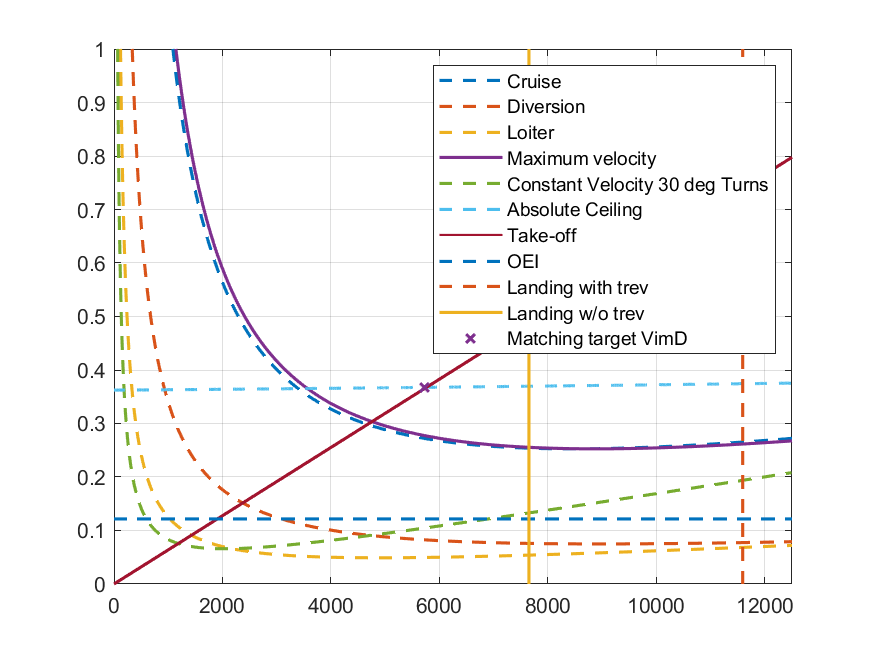
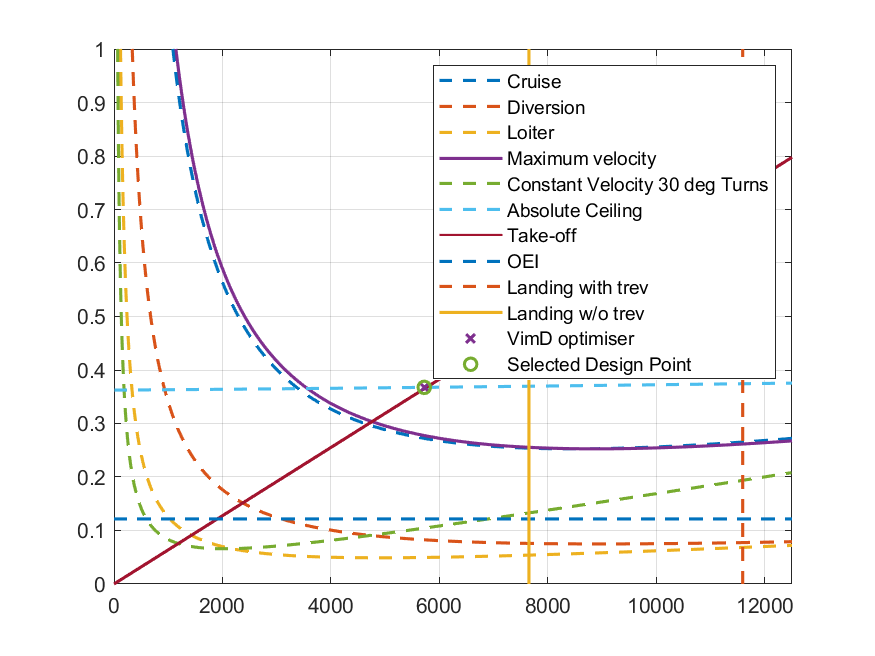
Added method for reading design point automatically
The design point can now be automatically derived from just running the code. Make sure to check the graph anyway. The design point is selected to optimise VimD to match the cruise segment.

diff --git a/Initial Sizing & Constraints/Absolute_Ceiling.m b/Initial Sizing & Constraints/Absolute_Ceiling.m
@@ -8,7 +8,7 @@ function [WS, TW, X, Y] = Absolute_Ceiling(Altitude, n, alpha, beta, L_DMax, C_D
 % wing loadings. This comes straight from the AP formula for VimD (the one
 % with A and B.
 
-WS = [0:1:12500];
+WS = [0:10:12500];
 [T_SL, A_SL, P_SL, RHO_SL] = atmosisa(0);
 [T_H, A_H, P_H, RHO_H] = atmosisa(Altitude*0.3048);
 gamma = 1.4;
